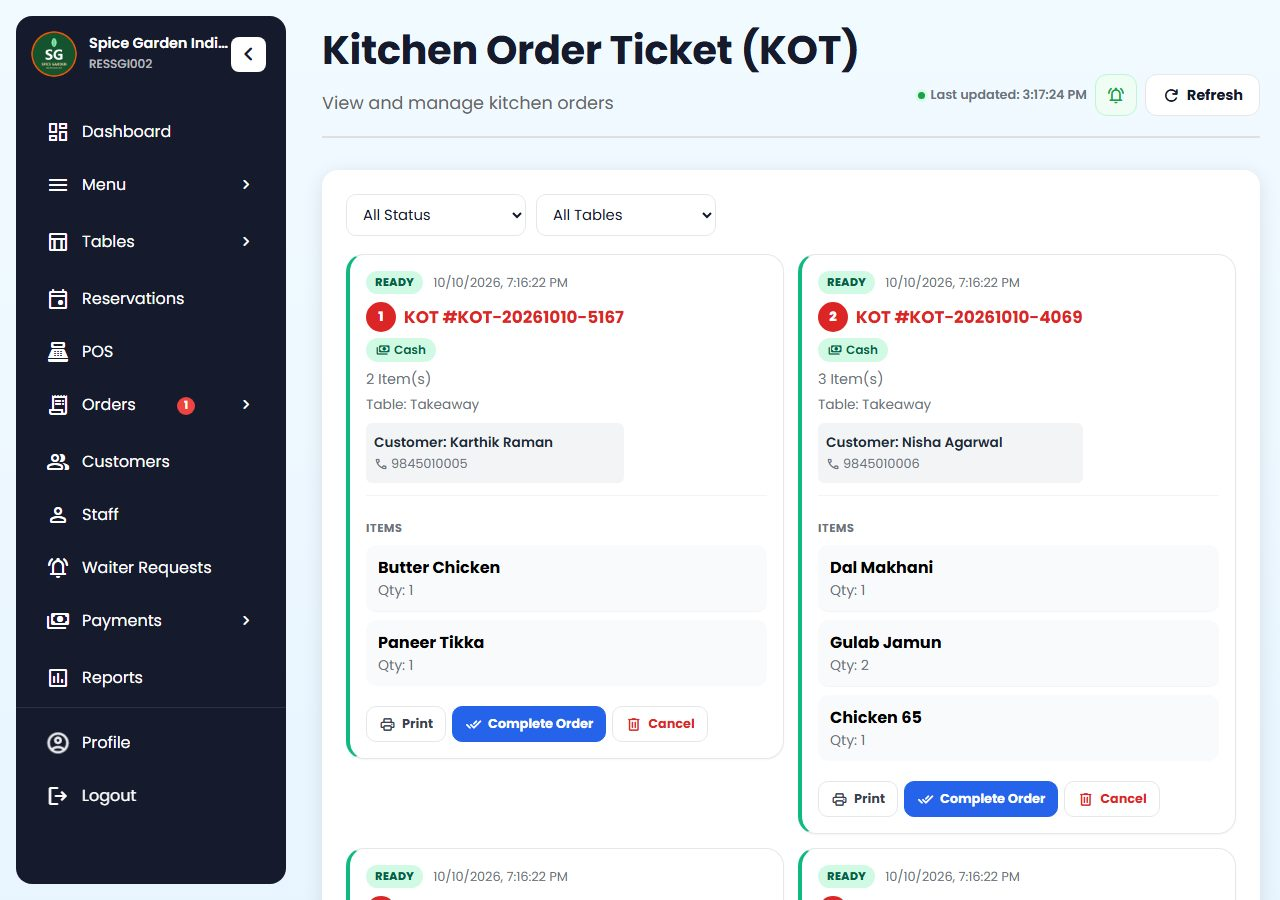
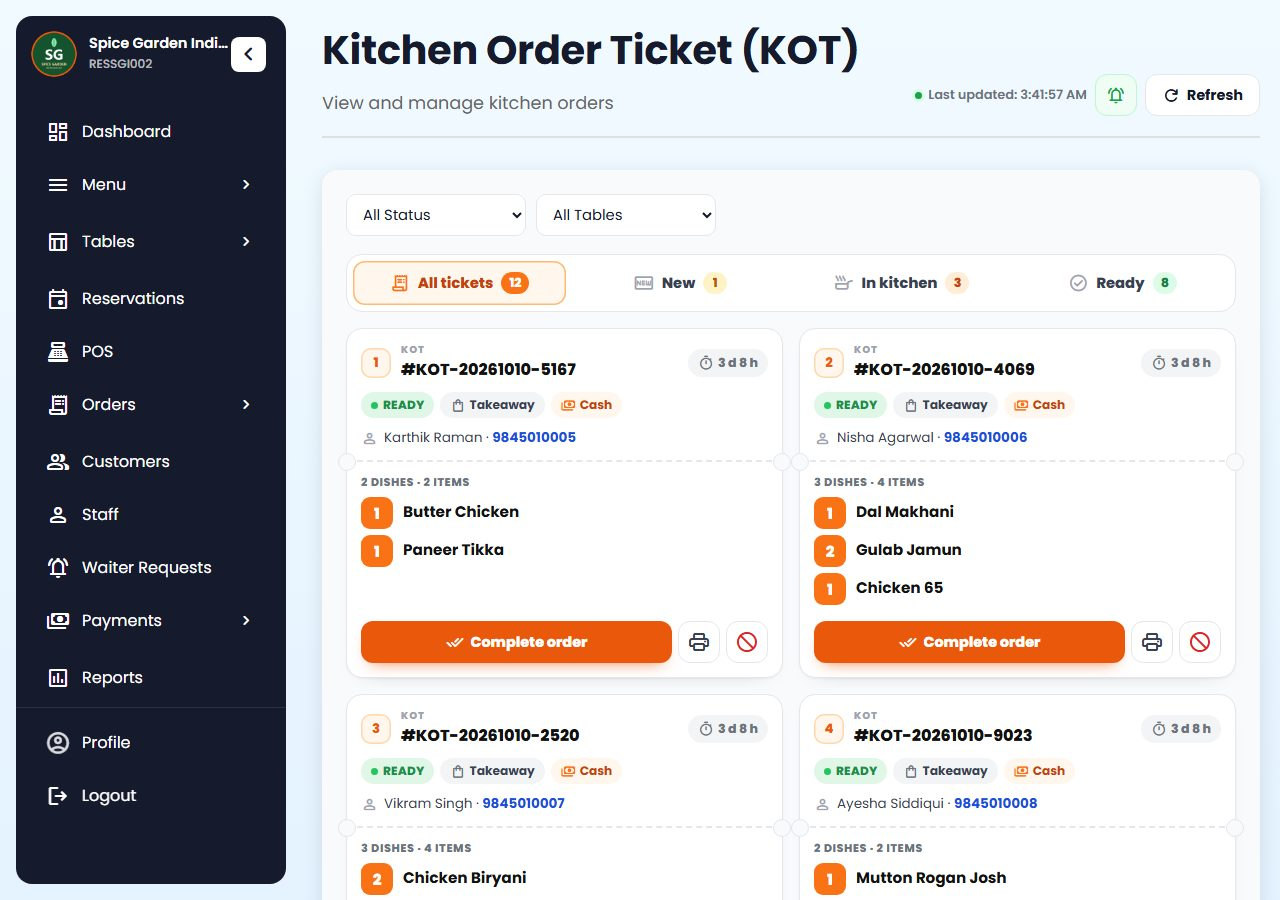
Docs: README and user guide for the 14 October updates; Orders tabs in orange
- README: What's new (14 Oct) for Online Orders, Orders tabs, Update payment, modals, KOT, Blocked
  customers, Ready in, Analytics, faster dashboards and the superadmin / email / health check work;
  .env rows for SMTP, MAIL_FROM_* and HEALTH_CHECK_KEY; Uptime monitoring section; new screenshots.
- User guide: Online orders, All orders, KOT, Blocked customers and Analytics rewritten, 4 news
  entries, and fresh pictures of those five pages.
- Orders page tabs and stage chips use orange like Online Orders (no black).

diff --git a/main/views/user-guide.html b/main/views/user-guide.html
@@ -210,14 +210,14 @@ var GROUPS = [
  { id: 'pos', title: 'POS and kitchen', intro: 'Take orders at the counter and run the kitchen.', items: [
   { id: 'posl', title: 'POS (point of sale)', where: 'POS', img: 'posPage', isNew: 1, what: 'A fast billing screen for walk-in, dine-in and phone orders. Dishes are shown by category with their photos; tap a category (Starters, Main Course…) or Veg / Non-veg to narrow them, or search. Each dish shows how many are already in the cart.',
     steps: ['Choose the table (or Takeaway) at the top of the cart.', 'Tap a category, then tap dishes to add them (tap again for more); change quantity with − and +.', 'Apply a discount if needed, choose the payment method and complete the order.', 'The kitchen ticket (KOT) is created automatically.'] },
-  { id: 'kot', title: 'KOT (kitchen tickets)', where: 'Orders › KOT', img: 'kotPage', what: 'Kitchen Order Tickets for every order, with status from new to ready. Print them for the kitchen or use the Chef dashboard.',
-    steps: ['Mark a ticket “Preparing” when cooking starts and “Ready” when done.', 'Print a ticket if your kitchen works from paper.'] },
+  { id: 'kot', title: 'KOT (kitchen tickets)', where: 'Orders › KOT', img: 'kotPage', isNew: 1, what: 'A ticket for every order sent to the kitchen. Each ticket shows how long it has been waiting (amber after 10 minutes, red after 20), the table or takeaway, how it is paid, the customer, and the dishes with big quantities and notes. Print them for the kitchen or use the Chef dashboard.',
+    steps: ['Tap a chip at the top to see All tickets, New, In kitchen or Ready (each shows how many).', 'Tap <b>Start cooking</b>, then <b>Mark as ready</b>, then <b>Complete order</b> when it is served or picked up.', 'Print a ticket with the printer button if your kitchen works from paper; the red button cancels a ticket.'] },
  ]},
  { id: 'orders', title: 'Orders and customers', intro: 'Website orders, all orders, customers, staff and service requests.', items: [
-  { id: 'onlineorders', title: 'Online orders', where: 'Orders › Online Orders', img: 'onlineOrdersPage', what: 'Orders placed on your website, refreshing every 15 seconds with a sound for new ones. Accept or reject, move them through Preparing → Ready → Completed, print, mark paid, or open the delivery route.',
-    steps: ['Accept a new order (set the preparation time) or Reject it with a reason.', 'Move it forward as it cooks; the customer’s tracking page updates live.', 'Use “Mark paid” for cash orders once paid.', 'Search by order number or customer name; filter by status.'] },
-  { id: 'allorders', title: 'All orders', where: 'Orders › Orders', img: 'ordersPage', what: 'Every order from every channel (website, POS, tables) with filters, details and printing.', steps: ['Filter by date, status or type; open an order to see items, payments and history.'] },
-  { id: 'blocklist', title: 'Blocked customers', where: 'Orders › Blocked Customers', img: 'blocklistPage', what: 'Phones or devices blocked from ordering on your website: added automatically after 3 fake orders, or by you.', steps: ['Unblock someone who was blocked by mistake.', 'Block a number that keeps placing fake orders.'] },
+  { id: 'onlineorders', title: 'Online orders', where: 'Orders › Online Orders', img: 'onlineOrdersPage', isNew: 1, what: 'Orders placed on your website, refreshing every 15 seconds with a sound for new ones. At the top choose <b>Delivery, Dine-in or Takeaway</b> (with counts and a summary: orders, new, preparing, ready, completed, cancelled and their value), then <b>Ongoing, Completed, Cancelled or All</b>, and under Ongoing a stage (New, Scheduled, Accepted, Preparing, Ready, Served). Every card shows the customer, the order number and type, the status, each dish with its photo, size, add-ons, quantity and price, the time, and whether it is paid or still to collect.',
+    steps: ['Accept a new order (set the preparing and delivery time) or Reject it with a reason.', 'Move it forward with the orange button: Start cooking, Mark as ready, Mark as served (takeaway: Mark as picked up), Mark as completed. The customer’s tracking page updates live.', 'Round buttons: WhatsApp, call the customer, print, details, <b>Update payment</b> (how it was paid, and paid / part paid / refunded) and cancel.', 'Search by order number or customer name; your type, tab and stage are remembered.'] },
+  { id: 'allorders', title: 'All orders', where: 'Orders › Orders', img: 'ordersPage', isNew: 1, what: 'Every order from every channel (website, POS, tables) with Ongoing / Completed / Cancelled / All tabs, stage chips, filters, details and printing.', steps: ['Pick a date (today by default), then a tab; under Ongoing, tap a stage to narrow it down.', 'Open an order to see items, payments and history; print or mark it paid from the card.'] },
+  { id: 'blocklist', title: 'Blocked customers', where: 'Orders › Blocked Customers', img: 'blocklistPage', isNew: 1, what: 'Phones or devices blocked from ordering on your website: added automatically after 3 fake orders (each “Couldn’t reach the customer” rejection is a strike), or by you. The numbers at the top show how many are blocked now, automatically, by you and expired.', steps: ['To block: choose Mobile or IP address, type it, add a reason if you like, pick how long, and tap Block.', 'Search or filter the list (Blocked now, Auto, By you, Expired).', 'Tap Unblock and confirm to let someone order again.'] },
   { id: 'customers', title: 'Customers', where: 'Customers', img: 'customersPage', what: 'Everyone who ordered: visits, total spent, last visit and their order history.', steps: ['Search a customer by name or phone.', 'Open a customer to see their orders and loyalty points.'] },
   { id: 'staff', title: 'Staff', where: 'Staff', img: 'staffPage', what: 'Add waiters, chefs and managers with their own logins and permissions.',
     steps: ['Add a staff member with role, username and password.', 'Waiters see table requests, chefs see kitchen tickets, managers see a reduced dashboard.', 'Deactivate staff who leave.'] },
@@ -229,7 +229,7 @@ var GROUPS = [
     steps: ['The banner at the top says whether online payments are on, live or still in test mode, and what is missing.', 'Choose how customers pay online: the RestroGrow platform account (no setup) or your own PhonePe account.', 'Own account: paste your PhonePe Client ID and Client Secret (the eye button shows it), keep Sandbox while testing and pick Production when PhonePe approves you. Click Save.', 'Payment methods: Cash, Card and UPI are built in; Add method for others you accept at the counter. Add QR shows your QR when a customer pays by that method; Turn off hides a method at the POS.', 'Place a small test order and pay online.'],
     tips: ['The Wallet’s “Add money” also uses these PhonePe keys.', 'If the banner says online payments are off, ask RestroGrow support to switch on the payment gateway for you.'] },
   { id: 'reports', title: 'Sales reports', where: 'Payments › Reports', img: 'reportsPage', what: 'Sales by day, top dishes, payment methods and busy hours, with CSV export.', steps: ['Pick a date range and export to CSV for your accountant.'] },
-  { id: 'analytics', title: 'Analytics', where: 'Payments › Analytics', img: 'analyticsPage', what: 'Website visits, popular dishes, peak hours and revenue trends.', steps: ['Check which days and hours are busiest to plan staff and offers.'] },
+  { id: 'analytics', title: 'Analytics', where: 'Analytics', img: 'analyticsPage', isNew: 1, what: '“What to do now” tips worked out from your own orders, then sales, orders, average bill, customers, repeat customers, discounts, cancellations and rating compared with the period before, a sales trend, busy hours, menu analysis (Stars, Workhorses, Puzzles, Dogs), customers and regulars who stopped coming, website visitors to orders, reviews, why orders were lost, and a forecast for the next 7 days.', steps: ['Pick 7, 30 or 90 days or 12 months at the top.', 'Start with the tips: each has a button to the page that fixes it (deals, upsell, loyalty, WhatsApp…).', 'Add recipes in Inventory to see real profit per dish in the menu analysis.'] },
  ]},
  { id: 'marketing', title: 'Marketing', intro: 'Ready-made posters, videos and captions for social media.', items: [
   { id: 'posters', title: 'Posters', where: 'Marketing › Posters', img: 'marketingPostersPage', isNew: 1, what: 'Design posters for WhatsApp, Instagram and Facebook from templates. A new poster starts with a photo from your own menu.', steps: ['Pick a design on the left.', 'Under Photo, tap any dish from your menu (or upload your own). Tap “Use … as the text” to put the dish name and price on the poster.', 'Write your offer, pick a colour and keep the Scan to Order QR on.', 'Download poster and share it.'] },
@@ -354,6 +354,10 @@ var GROUPS = [
 
   // What's new: [date, title, one line, guide section]
   var NEWS = [
+    ['14 Oct 2026', 'Online Orders by Delivery, Dine-in and Takeaway', 'Pick a type, see its numbers, then Ongoing or Completed and the stage. Cleaner cards with dish photos, paid or to collect next to the total, and an Update payment button.', 'onlineorders'],
+    ['14 Oct 2026', 'Kitchen tickets with a waiting timer', 'Tickets turn amber after 10 minutes and red after 20, with big quantities and one button to move them along.', 'kot'],
+    ['14 Oct 2026', 'Analytics that tells you what to do', 'Tips from your own orders, comparisons with the period before, menu analysis, regulars who stopped coming and a 7-day forecast.', 'analytics'],
+    ['14 Oct 2026', 'Preparing and delivery time', 'Set both when you accept; the customer sees Ready around or Arrives around on the tracking page.', 'alerts'],
     ['13 Oct 2026', 'POS by category, Reservations by day', 'POS: category and Veg / Non-veg chips, dishes grouped by category, a count on dishes in the cart, a bigger Pay button. Reservations: a day strip, numbers, and one tap to confirm, seat or finish a booking. Accept can also take a custom ready time.', 'posl'],
     ['13 Oct 2026', 'A clearer new-order popup', 'Dish photos, a live “received 3 min ago”, a clear payment box, the bill, new or returning customer, Ready in time, Later, and a reason picker (5 common reasons or your own) for rejecting or cancelling.', 'alerts'],
     ['13 Oct 2026', 'Stock follows every order, live', 'POS, kitchen and website orders take stock out the moment they happen. Dishes can go sold out on the POS and website when an ingredient runs out, and you get a notification when stock runs low.', 'inventory'],

diff --git a/main/assets/css/studio-ui.css b/main/assets/css/studio-ui.css
@@ -2367,3 +2367,7 @@ section.iv-auto { display: block; padding: 6px 16px; cursor: default; }
 .kt-q { background: #F97316; color: #FFFFFF; }
 .kt-main.done { background: #EA580C; box-shadow: 0 8px 16px -10px rgba(234,88,12,.9); }
 .kt-main.done:hover { background: #C2410C; }
+/* Orders page: same orange selection as Online Orders (no black) */
+#ordersPage .ot-tab.on { border-color: #F97316; background: #F97316; color: #FFFFFF; box-shadow: 0 8px 18px -12px rgba(249,115,22,.9); }
+#ordersPage .ot-chip.on { background: #FFF7ED; color: #C2410C; box-shadow: inset 0 0 0 1.5px #FDBA74; }
+#ordersPage .ot-chip.on em { background: #F97316 !important; color: #FFFFFF !important; }

diff --git a/README.md b/README.md
@@ -20,13 +20,29 @@
 - [Guides and documents](#guides-and-documents)
 - [Running it locally](#running-it-locally-xampp)
 - [Configuration (.env)](#configuration-env)
-- [Deploying, cron jobs and WhatsApp templates](#deploying)
+- [Deploying, uptime monitoring, cron jobs and WhatsApp templates](#deploying)
 - [Project structure and tech stack](#project-structure)
 - [Roadmap and known limitations](#roadmap)
 
 ---
 
 ## What's new
+
+### 14 October 2026
+
+| | Change | What it means for a restaurant |
+|---|---|---|
+| **Online Orders** | Redesigned, in RestroGrow orange | **Delivery / Dine-in / Takeaway** selector with counts, and a summary for the chosen type (orders, new, preparing, ready, completed, cancelled, total value, done value). Then **Ongoing / Completed / Cancelled / All** tabs and stage chips (New, Scheduled, Accepted, Preparing, Ready, Served) with counts. Every card has the same layout: customer, order number with a type chip, status, one row per dish with photo, size, add-ons, quantity and price, the time, and payment next to the total (green **Paid · UPI** or orange **To collect · Cash**). One main button (Accept + Reject, Start cooking, Mark as ready / served / completed) and round buttons for WhatsApp, Call, Print, Details, Update payment and Cancel. Takeaway shows **Ready for pickup** and **Picked up**, as on the tracking page. |
+| **Orders** | Ongoing / Completed tabs | The same tabs and stage chips on the Orders page, with one consistent card per order. |
+| **Update payment** | New | From an order card: how it was paid (Cash, UPI, Card, Online, Wallet) and Paid / Part paid / Not paid yet / Refunded. Only changes the payment rules allow can be picked. |
+| **Pop-ups** | RestroGrow modals | Every confirm and message on the dashboard opens in one styled window (cancel order, mark paid, discard held order, saved / error messages) instead of the browser's alert box. |
+| **Kitchen tickets (KOT)** | Redesigned | Ticket cards with a live **waiting time** (amber after 10 min, red after 20), table or takeaway, payment, big quantity squares the kitchen can read, notes, and one button: Start cooking → Mark as ready → Complete order. Stage chips: All, New, In kitchen, Ready. |
+| **Blocked customers** | Redesigned | Numbers at a glance (blocked now, auto, by you, expired), a Mobile / IP switch, search and filters, and a clear Unblock confirm. |
+| **New-order popup** | Preparing + delivery time | **Ready in** has a Preparing time and, for delivery orders, a Delivery time: 5, 10, 15, 20, 30, 45 min, − / + buttons or any number. The customer's tracking page shows **Ready around 8:45 PM** or **Arrives around 9:10 PM**. |
+| **Analytics** | Rebuilt | “What to do now” tips worked out from your own orders (slowest day, busiest hour, combo ideas, dishes to push or drop, regulars who stopped coming), numbers compared with the period before, sales trend, busy-hours heatmap, menu analysis (Stars, Workhorses, Puzzles, Dogs), customers, website visitors to orders, reviews, why orders were lost, and a 7-day forecast. |
+| **Faster dashboards** | Smaller icon font | Dashboards download only the ~420 icons they use (41 KB instead of 373 KB) and the browser console stays quiet on the live site. |
+
+For the RestroGrow team: the **superadmin panel** gained a restaurant view, analytics, renewals, coupons, leads, support tickets, announcements, invoices with GST, security and activity, platform health and bulk actions (see [Staff apps and superadmin](#staff-apps-and-superadmin)); email can go out from a different address per kind of email; and there is a public health check for uptime monitors (see [Uptime monitoring](#uptime-monitoring)).
 
 ### 13 October 2026
 
@@ -81,6 +97,14 @@
 
 <table>
   <tr>
+    <td width="50%"><img src="main/assets/guide/onlineOrdersPage.jpg" alt="Online orders"><br><b>Online orders</b>: Delivery / Dine-in / Takeaway, numbers, one card per order</td>
+    <td width="50%"><img src="main/assets/guide/kotPage.jpg" alt="Kitchen tickets"><br><b>Kitchen tickets</b>: waiting time, big quantities, one button</td>
+  </tr>
+  <tr>
+    <td><img src="main/assets/guide/analyticsPage.jpg" alt="Analytics"><br><b>Analytics</b>: what to do now, worked out from your orders</td>
+    <td><img src="main/assets/guide/blocklistPage.jpg" alt="Blocked customers"><br><b>Blocked customers</b>: numbers, search, clear unblock</td>
+  </tr>
+  <tr>
     <td width="50%"><img src="main/assets/guide/dashboardPage.jpg" alt="Dashboard"><br><b>Dashboard</b>: today at a glance and what needs attention</td>
     <td width="50%"><img src="docs/screenshots/new-order-popup.jpg" alt="New order popup"><br><b>New order</b>: photos, payment, bill, ready-in time, reasons</td>
   </tr>
@@ -94,7 +118,7 @@
   </tr>
   <tr>
     <td><img src="main/assets/guide/menuItemsPage.jpg" alt="Menu items"><br><b>Menu items</b>: numbers, search, cleaner dish cards</td>
-    <td><img src="main/assets/guide/ordersPage.jpg" alt="Orders"><br><b>Orders</b> and the other older pages in the new look</td>
+    <td><img src="main/assets/guide/ordersPage.jpg" alt="Orders"><br><b>Orders</b>: Ongoing / Completed tabs and one card per order</td>
   </tr>
   <tr>
     <td><img src="main/assets/guide/offersHomePage.jpg" alt="All offers"><br><b>All offers</b>: every offer tool and whether it's on</td>
@@ -282,6 +306,9 @@ The full list with comments is in [`main/.env.example`](main/.env.example). The 
 | `REPEATGROW_API_URL`, `REPEATGROW_API_KEY`, `REPEATGROW_GIFT_TEMPLATE` | WhatsApp OTP and RestroGrow's shared number |
 | `VAPID_PUBLIC_KEY`, `VAPID_PRIVATE_KEY`, `VAPID_SUBJECT` | Optional: push keys (generated automatically if missing) |
 | `CRON_SECRET_KEY` | Running cron jobs by URL |
+| `SMTP_ENABLED`, `SMTP_HOST`, `SMTP_PORT`, `SMTP_SECURE`, `SMTP_USERNAME`, `SMTP_PASSWORD`, `SMTP_FROM_EMAIL`, `SMTP_FROM_NAME` | Sending email. With Google Workspace: `smtp.gmail.com`, port `587`, `tls`, the mailbox as username and a Google **app password** (not the normal password). |
+| `MAIL_FROM_BILLING`, `MAIL_FROM_ALERTS`, `MAIL_FROM_ORDERS`, `MAIL_FROM_ACCOUNTS`, `MAIL_FROM_SUPPORT`, `MAIL_FROM_SALES` | Optional: which address each kind of email comes from (billing, new-order alerts to restaurants, order confirmations, password resets, support, sales). Each must be a *Send mail as* address of the SMTP login in Gmail. Unset ones use `SMTP_FROM_EMAIL`. Test them in Superadmin › Settings › Email check. |
+| `HEALTH_CHECK_KEY` | Optional: unlocks the detailed diagnostic page `main/admin/health_check.php` (`?key=…`). Not needed for the public health check. |
 | Apple / Google Wallet keys | The phone wallet card |
 
 ---
@@ -289,6 +316,12 @@ The full list with comments is in [`main/.env.example`](main/.env.example). The 
 ## Deploying
 
 Pushing to `main` deploys to restrogrow.com automatically. The code detects the Hostinger server and connects through the local MySQL socket. New tables and columns create themselves on first use (each feature has an `ensure…` function), so no manual migration is needed.
+
+### Uptime monitoring
+
+`https://restrogrow.com/main/api/health.php` is a public health check for UptimeRobot or any monitor. It answers **200** with `{"status":"ok"}` when the database answers, logins can be saved and the disk is fine, and **503** with `{"status":"down"}` and a short reason when something critical fails. It shows no passwords, host names, versions or paths, and accepts GET or HEAD. Add `?check=orders` to also read the orders table.
+
+In UptimeRobot: **New monitor › Keyword**, URL `https://restrogrow.com/main/api/health.php?check=orders`, keyword `"status":"ok"`, alert when the keyword **does not exist**, every 5 minutes. Add plain HTTP(s) monitors for `https://restrogrow.com` and `https://restrogrow.com/main/admin/login.php` too.
 
 ### Cron jobs (Hostinger)
 
